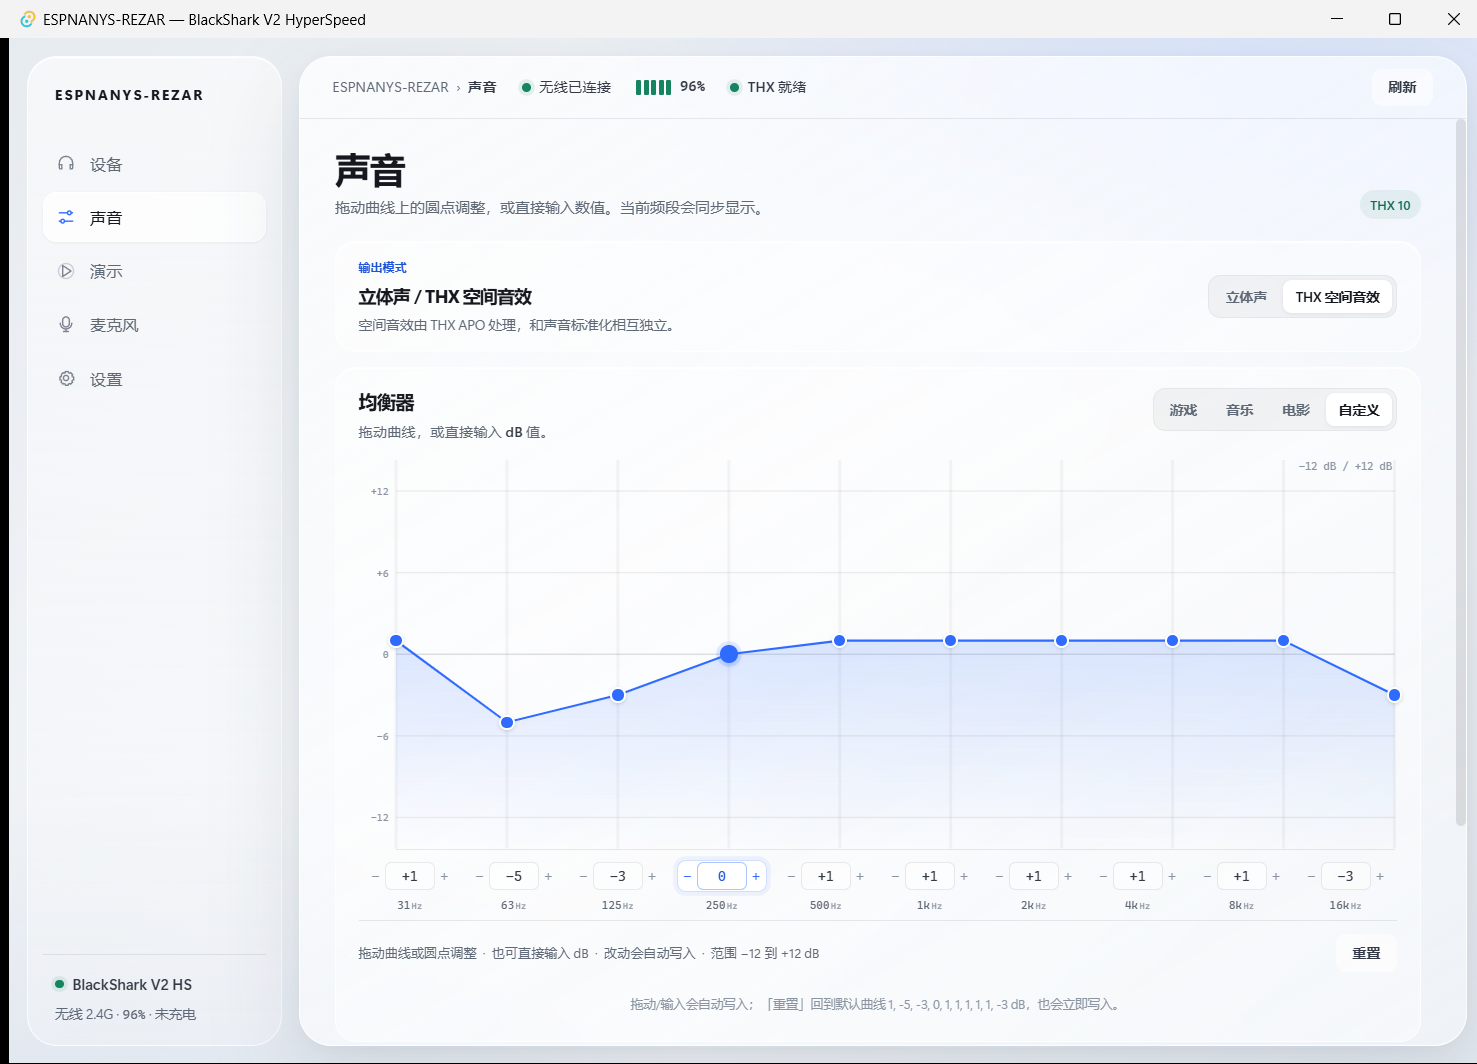
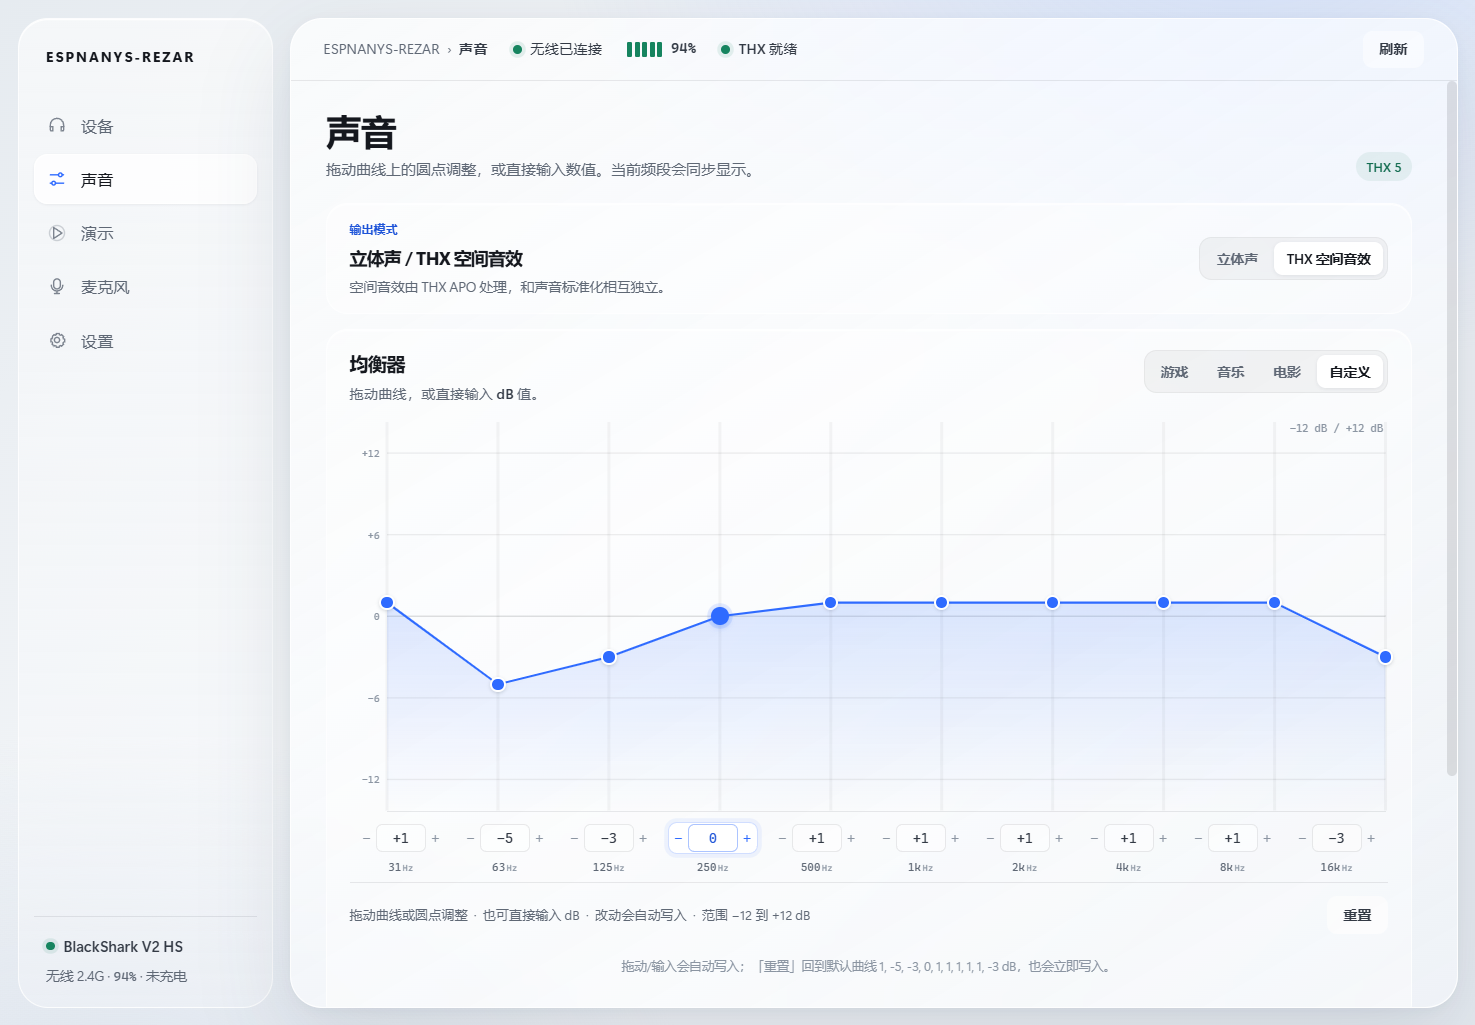
Default sound normalization to 5 and restore the last choice

diff --git a/ui/src/lib/device.svelte.ts b/ui/src/lib/device.svelte.ts
@@ -5,8 +5,21 @@
  * SPDX-License-Identifier: MIT
  */
 import { api } from "./api";
-import { DEFAULT_EQ_GAINS } from "./presets";
+import { DEFAULT_EQ_GAINS, DEFAULT_NORMALIZATION_LEVEL } from "./presets";
 import type { DeviceSnapshot, EqPreset, ThxSnapshot } from "./types";
+
+const NORMALIZATION_KEY = "sail.normalizationLevel";
+
+function storedNormalizationLevel(): number {
+  try {
+    const raw = localStorage.getItem(NORMALIZATION_KEY);
+    const value = raw ? Number(raw) : NaN;
+    if (Number.isFinite(value) && value >= 1 && value <= 100) return Math.round(value);
+  } catch {
+    // localStorage can be unavailable in a restricted webview; use default.
+  }
+  return DEFAULT_NORMALIZATION_LEVEL;
+}
 
 export class DeviceStore {
   status = $state<DeviceSnapshot | null>(null);
@@ -22,9 +35,32 @@ export class DeviceStore {
   private refreshEpoch = 0;
   private pending = 0;
   private defaultEqApplied = false;
+  private normalizationApplied = false;
 
   get thxError(): string {
     return this.thx?.error ?? this.thxReadError;
+  }
+
+  private desiredNormalizationLevel(): number {
+    return storedNormalizationLevel();
+  }
+
+  private async applyDesiredNormalization(level: number) {
+    this.pending += 1;
+    this.busy = true;
+    try {
+      await api.setNormalization(level);
+      if (this.thx) this.thx = { ...this.thx, level };
+      this.notice = `声音标准化默认 ${level}`;
+    } catch (error) {
+      // Retry on a later successful THX read rather than silently showing a
+      // level that was never written.
+      this.normalizationApplied = false;
+      this.error = `声音标准化默认值写入失败：${errorText(error)}`;
+    } finally {
+      this.pending -= 1;
+      this.busy = this.pending > 0;
+    }
   }
 
   private async applyDefaultEqOnce() {
@@ -84,7 +120,20 @@ export class DeviceStore {
         try {
           const thx = await api.getThxStatus();
           this.settle(epoch, () => {
-            this.thx = thx;
+            let next = thx;
+            if (!this.normalizationApplied && thx.enabled === true) {
+              const desired = this.desiredNormalizationLevel();
+              if (thx.level !== desired) {
+                // Show and write the preferred level before Synapse/THX can
+                // leave the preset's default (usually 10) in place.
+                next = { ...thx, level: desired };
+                this.normalizationApplied = true;
+                void this.applyDesiredNormalization(desired);
+              } else {
+                this.normalizationApplied = true;
+              }
+            }
+            this.thx = next;
             this.thxReadError = "";
           });
         } catch (error) {
@@ -139,7 +188,15 @@ export class DeviceStore {
   }
 
   async saveNormalization(level: number) {
-    await this.run(() => api.setNormalization(level), `声音标准化 ${level}`);
+    const ok = await this.run(() => api.setNormalization(level), `声音标准化 ${level}`);
+    if (ok) {
+      this.normalizationApplied = true;
+      try {
+        localStorage.setItem(NORMALIZATION_KEY, String(level));
+      } catch {
+        // Persistence is best-effort; the write to THX already succeeded.
+      }
+    }
     await this.refreshThx();
   }
 
@@ -149,6 +206,13 @@ export class DeviceStore {
       enabled ? "声音标准化已开启" : "声音标准化已关闭"
     );
     await this.refreshThx();
+    if (ok && enabled) {
+      const desired = this.desiredNormalizationLevel();
+      if (this.thx?.level !== desired) {
+        this.normalizationApplied = false;
+        void this.applyDesiredNormalization(desired);
+      }
+    }
     return ok;
   }
 

diff --git a/ui/src/lib/components/SoundPanel.svelte b/ui/src/lib/components/SoundPanel.svelte
@@ -7,7 +7,7 @@
 <script lang="ts">
   import { device } from "$lib/device.svelte";
   import { chargingText, fieldText, known } from "$lib/types";
-  import { DEFAULT_EQ_GAINS, frequencies } from "$lib/presets";
+  import { DEFAULT_EQ_GAINS, DEFAULT_NORMALIZATION_LEVEL, frequencies } from "$lib/presets";
   import EqEditor from "$lib/components/EqEditor.svelte";
   import NormalizationPanel from "$lib/components/NormalizationPanel.svelte";
   import SpatialModeToggle from "$lib/components/SpatialModeToggle.svelte";
@@ -19,7 +19,7 @@
   let gains = $state<number[]>([...DEFAULT_GAINS]);
   let saveTimer: ReturnType<typeof setTimeout> | null = null;
   let savingEq = $state(false);
-  let level = $state(10);
+  let level = $state(DEFAULT_NORMALIZATION_LEVEL);
   let normalizationOn = $state(false);
   let synced = $state(false);
 

diff --git a/ui/src/lib/presets.ts b/ui/src/lib/presets.ts
@@ -8,3 +8,8 @@ export const frequencies = ["31", "63", "125", "250", "500", "1k", "2k", "4k", "
 
 /** Razer's observed default 10-band curve, used for startup and Reset. */
 export const DEFAULT_EQ_GAINS = [1, -5, -3, 0, 1, 1, 1, 1, 1, -3];
+
+/** Preferred default for the speaker THX DRC level. Synapse's UI starts at 10;
+ * the device accepts 1..100 and this app defaults to 5 unless the user chose
+ * another value (persisted in localStorage). */
+export const DEFAULT_NORMALIZATION_LEVEL = 5;

diff --git a/README.md b/README.md
@@ -473,7 +473,7 @@ THX 是挂在耳机音频 endpoint 上的 **Windows APO**（版本 3.2.3.0），
 |---|---|
 | 扬声器均衡器预设/频段 | **HID `0x93` + `0x95`**，同时写 THX `SetRenderEQGains` |
 | 麦克风均衡器预设/频段 | **只走 THX `SetCaptureEQGains`**；写入 JSON 10 值，`SetCaptureEQ(true)` 才会生效；HID `0x96` 返回 status 5 |
-| 声音标准化 | 只走 THX `SetRenderNormalization` / `Level`（DRC） |
+| 声音标准化 | 只走 THX `SetRenderNormalization` / `Level`（DRC）；默认等级 **5**，用户改过后保存到 `localStorage`，重启自动恢复 |
 | 噪声门 | THX `SetCaptureVoiceGate` / `SetCaptureVoiceGateLevel(float)`；UI 1–5 → -60…-20 dB |
 | 麦克风降噪 | THX `SetCaptureNoiseReduction` / `Level`；0–100 1:1 |
 | 音量标准化 / 亮丽人声 | THX `SetCaptureNormalization` / `SetCaptureVocalClarity` + `Level` |

diff --git a/docs/audio-features.md b/docs/audio-features.md
@@ -180,6 +180,7 @@ UI：增强 → 麦克风降噪，默认开启，滑杆 60。
 ## 5. 声音标准化（增强页）
 
 - UI：增强 → 声音标准化，默认开，滑杆 10。
+- **ESPNANYS-REZAR 默认等级改为 5**（Synapse 组件默认仍是 10）。首次启动写 5；用户改过以后把最后值存到 WebView `localStorage`，下次启动优先恢复该值，没有记录才用 5。
 - 开关：`SetRenderNormalization(containerId, true/false)`
 - 等级：`SetRenderNormalizationLevel(containerId, 0..100)`
 - 实测 UI 54 → 54，1:1。
